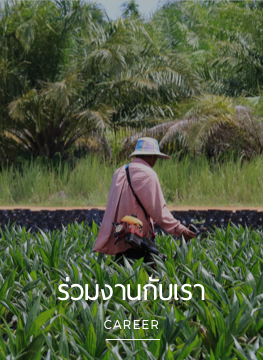
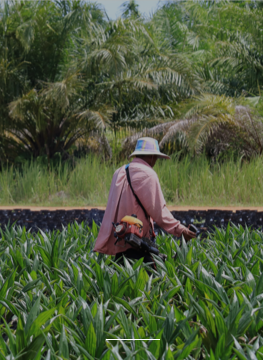
frontend

Changed region(s): [[0.2129, 0.7639, 0.7605, 0.8556], [0.3954, 0.8861, 0.6084, 0.9167], [0.7605, 0.7944, 0.7909, 0.8556]]

diff --git a/resources/sass/home.scss b/resources/sass/home.scss
@@ -83,3 +83,24 @@
     display: block;
     color: black;
 }
+
+
+.background-h{
+    display: flex;
+    flex-direction: column;
+    height: 300px;
+    background-repeat: no-repeat;
+    background-size: 100% 100%;
+    padding: 10px 10px;
+    color: white;
+    @media (max-width: 767.98px) { 
+        height: 250px;
+    } 
+    justify-content: flex-end;
+    &:nth-child(1){
+        justify-content: flex-end;
+    }   
+    &:nth-child(2){
+        justify-content: flex-end;
+    }  
+}

diff --git a/public/css/home.css b/public/css/home.css
@@ -89,3 +89,28 @@
   color: black;
 }
 
+.background-h {
+  display: flex;
+  flex-direction: column;
+  height: 300px;
+  background-repeat: no-repeat;
+  background-size: 100% 100%;
+  padding: 10px 10px;
+  color: white;
+  justify-content: flex-end;
+}
+
+@media (max-width: 767.98px) {
+  .background-h {
+    height: 250px;
+  }
+}
+
+.background-h:nth-child(1) {
+  justify-content: flex-end;
+}
+
+.background-h:nth-child(2) {
+  justify-content: flex-end;
+}
+

diff --git a/resources/sass/main.scss b/resources/sass/main.scss
@@ -49,6 +49,7 @@ p{
     color: $color;
 }
 
+
 a{
     color: black;
     &:hover{
@@ -173,9 +174,17 @@ a{
     background-color: $color;
     border-color: $color;
     color: #fff;
-    &:hover{
+    &:hover,&:focus{
         box-shadow: 0 2px 6px $color;
         background-color: $color !important;
         border-color: $color;
+    }
+}
+
+.b-hover{
+    cursor: pointer;
+    &:hover{
+        background-color: $color;
+        color: white;
     }
 }

diff --git a/public/css/main.css b/public/css/main.css
@@ -204,9 +204,20 @@ a:hover {
 }
 
 .btn.btn-m:hover,
-.btn-m.disabled:hover {
+.btn.btn-m:focus,
+.btn-m.disabled:hover,
+.btn-m.disabled:focus {
   box-shadow: 0 2px 6px #0A4B31;
   background-color: #0A4B31 !important;
   border-color: #0A4B31;
+}
+
+.b-hover {
+  cursor: pointer;
+}
+
+.b-hover:hover {
+  background-color: #0A4B31;
+  color: white;
 }
 

diff --git a/resources/views/frontend/location.blade.php b/resources/views/frontend/location.blade.php
@@ -1,0 +1,115 @@
+@extends('frontend.layout')
+
+@section('more-style')
+<style>
+    img{
+        max-width: 100%;
+    }
+    .readme{
+        border-bottom: 1px solid #0A4B31;
+        display: block;
+        color: black;
+    }
+    .pallex{
+        color: white;
+        min-height: 400px; 
+        background-attachment: fixed;
+        background-position: center;
+        background-repeat: no-repeat;
+        background-size: cover;
+        display: flex;
+        align-items: center;
+        justify-content: center;
+        flex-direction: column;
+    }
+    iframe { 
+        max-width: 100%;
+    }
+</style>
+@endsection
+
+
+@section('body')
+@component('frontend.component.highlight',['text_th'=>'ศูนย์กล้าปาล์มน้ำมัน','text_en'=>'OIL PALM PLANTATION CENTER','type'=>7])
+    
+@endcomponent
+
+
+<div class="container pt-5 pb-5">
+    <div class="row" id="accordion">
+        <div class="col-5">
+            <h6 class="m-0 p-2" style="color:white;background-color:#0A4B31">ติดต่อสำนักงานขาย</h6>
+            <hr class="mt-1 mb-1">
+            @foreach ($data as $key => $item)
+                <div class="accordion-header p-2 b-hover" role="button" data-toggle="collapse" data-target="#panel-body-{{$key}}" aria-expanded="@if($key==0){{"true"}}@else{{"false"}}@endif">
+                    {{$item['title']}}
+                </div>
+            @endforeach
+            
+        </div>
+        <div class="col-7">
+            @foreach ($data as $key => $item)
+                <div class="accordion-body collapse @if($key==0){{"show"}}@endif" id="panel-body-{{$key}}" data-parent="#accordion" style="">
+
+                    <h6 class="color-main">{{$item['title']}}</h6>
+                    <hr class="mt-2 mb-2" style="border-top: 1px solid #0A4B31">
+                    
+                    <div class="d-flex mb-2">
+                        <div class="mr-2">
+                            <img src="/images/contact2.png" style="width:20px">
+                        </div>
+                        <div>
+                            {{$item['location']}}
+                        </div>
+                    </div>
+                    <div class="d-flex mb-2">
+                        <div class="mr-2">
+                            <img src="/images/contact4.png" style="width:20px">
+                        </div>
+                        <div>
+                            {{$item['phone']}}
+                        </div>
+                    </div>
+                    <div class="d-flex mb-2">
+                        <div class="mr-2">
+                            <img src="/images/contact3.png" style="width:20px">
+                        </div>
+                        <div>
+                            {{$item['email']}}
+                        </div>
+                    </div>
+                    <div class="form-group"></div>
+                    <div class="mb-2">
+                        <a target="_blank" href="{{$item['link']}}" class="btn btn-m">Google Map</a>
+                        {{-- <a href="#" class="btn btn-dark">แผนที่รูปภาพ</a> --}}
+                    </div>
+                    @if($item->iframe)
+                        {!! $item->iframe !!}
+                    @endif
+                </div>
+            @endforeach
+            
+            
+        </div>
+    </div>
+</div>
+
+<div class="pallex" style="background-image: url('/images/b-garden.png');position: relative;">
+    <div class="w-100 h-100 d-flex justify-content-center align-items-center" style="position: absolute;background: rgba(0, 0, 0, 0.4);">
+        <div class="container text-center">
+            <h4>
+                ผลิตภัณฑ์ของเรา
+            </h4>
+            <div class="mb-3">
+                คัดเลือกหาล์มน้ำมันหลายสายพันธุ์ดีที่สุดจาดทั่วโลกเพื่อเกษตรกรของเรา
+            </div>
+            <a href="{{url('product')}}" class="btn btn-dark">ดูรายละเอียด</a>
+        </div>
+    </div>
+</div>
+
+
+@endsection
+
+@section('more-script')
+@endsection

diff --git a/resources/views/frontend/home.blade.php b/resources/views/frontend/home.blade.php
@@ -18,25 +18,77 @@
     {{-- <div style="margin-top: -70px;"></div> --}}
     <div class="row con-b p-2" style="margin-top: -70px;" style="background-color:white">
         <div class="col-sm-6 col-md-3 mb-3 text-center">
-            <img class="w-100 h-100" src="/images/h-about.png">
+            <div class="background-h w-100" style="background-image: url('/images/h-about.png')">
+                <div class="h5 mb-1">
+                    เกี่ยวกับเรา
+                </div>
+                <div class="text-uppercase">
+                    about us
+                </div>
+            </div>
         </div>
-        <div class="col-sm-6 col-md-6 mb-3 text-center">
-            <img class="w-100" src="/images/h-product.png">
+        <div class="col-sm-6 col-md-6 mb-3 text-right">
+            <div class="background-h w-100" style="background-image: url('/images/h-product.png')">
+                <div class="text-uppercase">
+                    OUR PRODUCTs
+                </div>
+                <div class="h5 mb-1">
+                    ผลิตภัณฑ์ของเรา
+                </div>
+                <a class="btn btn-m h6" style="width:120px">
+                    ดูรายละเอียด
+                </a>
+            </div>
         </div>
         <div class="col-sm-6 col-md-3 mb-3 text-center">
-            <img class="w-100 h-100" src="/images/h-location.png">
+            <div class="background-h w-100" style="background-image: url('/images/h-location.png')">
+                <div class="h5 mb-1">
+                    ศูนย์กล้าปาล์มน้ำมัน
+                </div>
+                <div class="text-uppercase">
+                    old palm plantation center
+                </div>
+            </div>
         </div>
         <div class="col-sm-6 col-md-3 mb-3 text-center">
-            <img class="w-100 h-100" src="/images/h-garden.png">
+            <div class="background-h w-100" style="background-image: url('/images/h-garden.png')">
+                <div class="h5 mb-1">
+                    คู่มือการจัดการสวน
+                </div>
+                <div class="text-uppercase">
+                    garden management
+                </div>
+            </div>
         </div>
         <div class="col-sm-6 col-md-3 mb-3 text-center">
-            <img class="w-100 h-100" src="/images/h-ag.png">
+            <div class="background-h w-100 " style="background-image: url('/images/h-ag.png')">
+                <div class="h5 mb-1">
+                    เกษตรตัวอย่าง
+                </div>
+                <div class="text-uppercase">
+                    OUR AGRiculturust
+                </div>
+            </div>
         </div>
         <div class="col-sm-6 col-md-3 mb-3 text-center">
-            <img class="w-100 h-100" src="/images/h-new.png">
+            <div class="background-h w-100 h-100" style="background-image: url('/images/h-new.png')">
+                <div class="h5">
+                    ข่าวสารและกิจกรรม
+                </div>
+                <div class="text-uppercase">
+                    news and event
+                </div>
+            </div>
         </div>
         <div class="col-sm-6 col-md-3 mb-3 text-center">
-            <img class="w-100 h-100" src="/images/h-career.png">
+            <div class="background-h w-100 h-100" style="background-image: url('/images/h-career.png')">
+                <div class="h5">
+                    ร่วมงานกับเรา
+                </div>
+                <div class="text-uppercase">
+                    career
+                </div>
+            </div>
         </div>
     </div>
 </div>

diff --git a/resources/views/backend/location/update.blade.php b/resources/views/backend/location/update.blade.php
@@ -43,6 +43,18 @@
                     <input type="text" class="form-control" name="email" value="{{$data->email}}">
                 </div>
             </div>
+            <div class="form-group row mb-4">
+                <label class="col-form-label text-md-right col-12 col-md-3 col-lg-3">ลิงค์</label>
+                <div class="col-sm-12 col-md-7">
+                    <input type="text" class="form-control" name="link" value="{{$data->link}}">
+                </div>
+            </div>
+            <div class="form-group row mb-4">
+                <label class="col-form-label text-md-right col-12 col-md-3 col-lg-3">iframe</label>
+                <div class="col-sm-12 col-md-7">
+                    <input type="text" class="form-control" name="iframe" value="{{$data->iframe}}">
+                </div>
+            </div>
             
             
             <div class="form-group row mb-4">

diff --git a/app/Http/Controllers/Frontend/LocationController.php b/app/Http/Controllers/Frontend/LocationController.php
@@ -5,7 +5,7 @@ namespace App\Http\Controllers\Frontend;
 use Illuminate\Http\Request;
 use App\Http\Requests;
 use App\Http\Controllers\Controller;
-use Illuminate\Support\Facades\Input;
+use App\Models\Location;
 
 class LocationController extends Controller
 {
@@ -14,7 +14,8 @@ class LocationController extends Controller
     }
 
     public function index(){
-        return view('frontend.location');
+        $data = Location::select()->get();
+        return view('frontend.location',compact('data'));
     }
     
 }

diff --git a/database/migrations/2019_05_07_135520_create_location.php b/database/migrations/2019_05_07_135520_create_location.php
@@ -19,8 +19,8 @@ class CreateLocation extends Migration
             $table->string('location')->nullable();
             $table->string('phone')->nullable();
             $table->string('email')->nullable();
-            $table->string('latitude')->nullable();
-            $table->string('longitude')->nullable();
+            $table->text('link')->nullable();
+            $table->text('iframe')->nullable();
             $table->timestamps();
         });
     }

diff --git a/app/Http/Controllers/Frontend/CareerController.php b/app/Http/Controllers/Frontend/CareerController.php
@@ -5,7 +5,6 @@ namespace App\Http\Controllers\Frontend;
 use Illuminate\Http\Request;
 use App\Http\Requests;
 use App\Http\Controllers\Controller;
-use Illuminate\Support\Facades\Input;
 use App\Models\Career;
 
 class CareerController extends Controller

diff --git a/app/Models/Location.php b/app/Models/Location.php
@@ -17,7 +17,7 @@ class Location extends Model
         'location',
         'phone',
         'email',
-        'latitude',
-        'longitude',
+        'link',
+        'iframe',
     ];
 }
